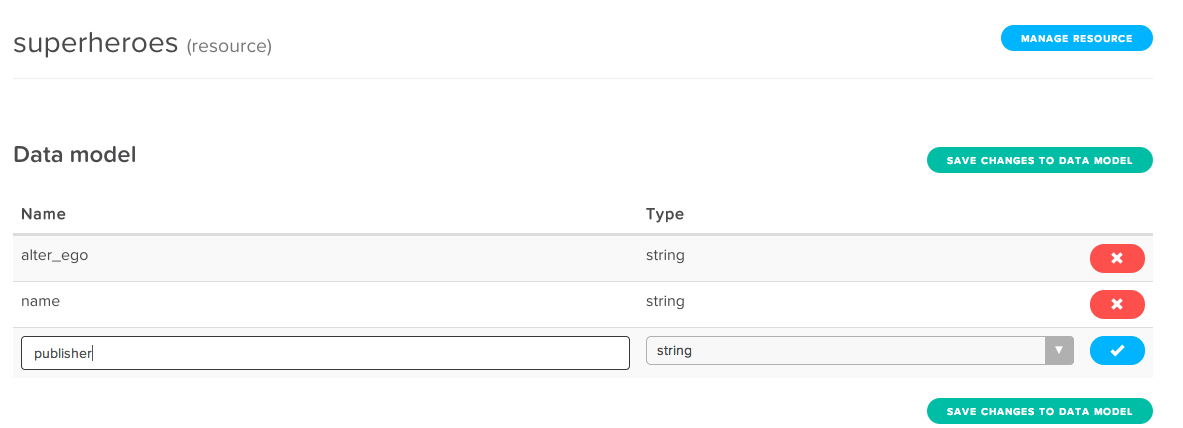
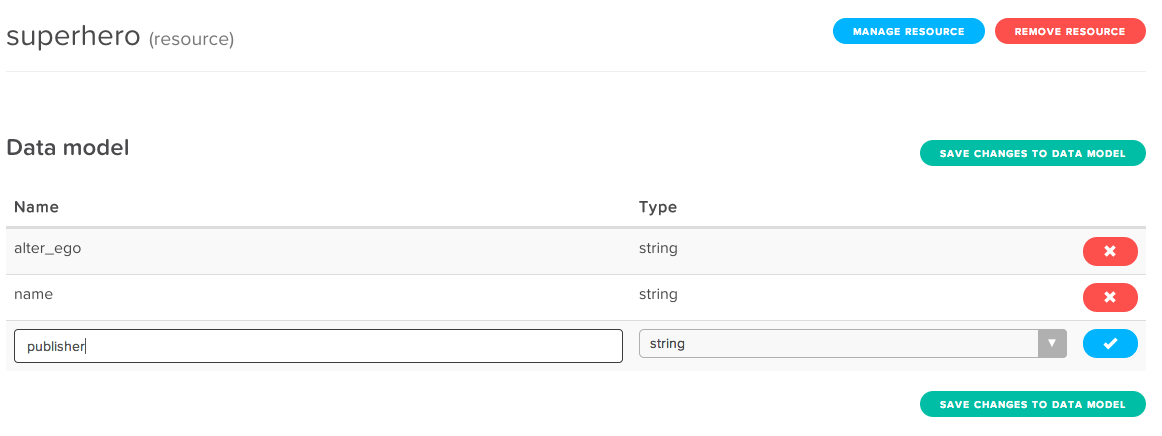
no more superheroes in data mile

diff --git a/docs/supersonic/tutorial/third-mile/index.md b/docs/supersonic/tutorial/third-mile/index.md
@@ -116,17 +116,17 @@ Though the Connect Screen does its best to keep up with changes, you can always 
 
 Now that we've got a few cool superheroes in our database, we want to show that in our app!
 
-Navigate to the "Generate Scaffolds" tab. Since we only have a single resource, it's automatically selected, so you can just click "Generate". This instructs the Steroids CLI to generate a CRUD scaffold for the `superheroes` resource.
+Navigate to the "Generate Scaffolds" tab. Since we only have a single resource, it's automatically selected, so you can just click "Generate". This instructs the Steroids CLI to generate a CRUD scaffold for the `superhero` resource.
 </section>
 
 <section class="docs-section" id="data-in-your-app">
 ## Interacting with Data in your App
 
-If you open your app project in a text editor, you'll notice we have a new Superheroes module in `app/superheroes/`. Let's make our app start from the Superheroes index, and while we're at it, disable tabs. Open `app/structure.coffee`, comment out or remove the tabs item and add a new `rootView` object:
+If you open your app project in a text editor, you'll notice we have a new Superhero module in `app/superhero/`. Let's make our app start from the Superhero index, and while we're at it, disable tabs. Open `config/structure.coffee`, comment out or remove the tabs item and add a new `rootView` object:
 
 ```coffeescript
 rootView:
-  location: "superheroes#index"
+  location: "superhero#index"
 ```
 
 Save the document, and your app will update with just the index page of our Superhero app:
